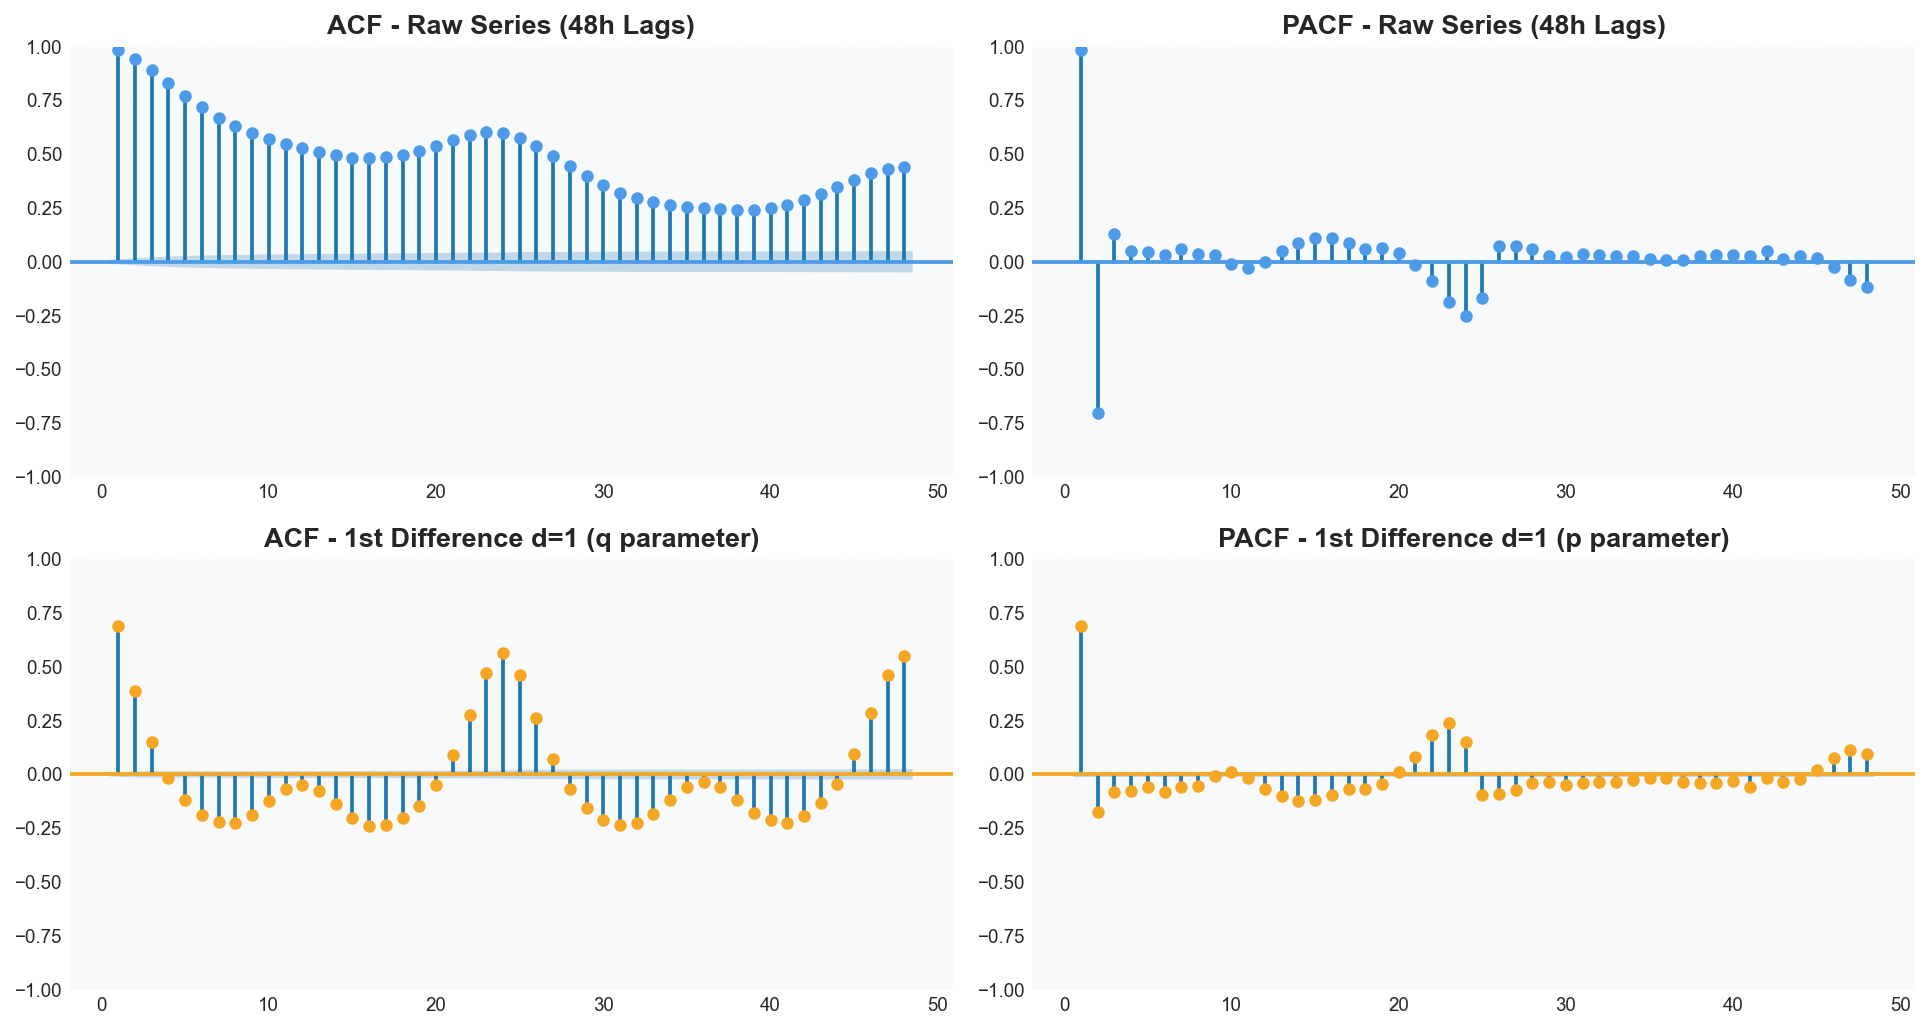
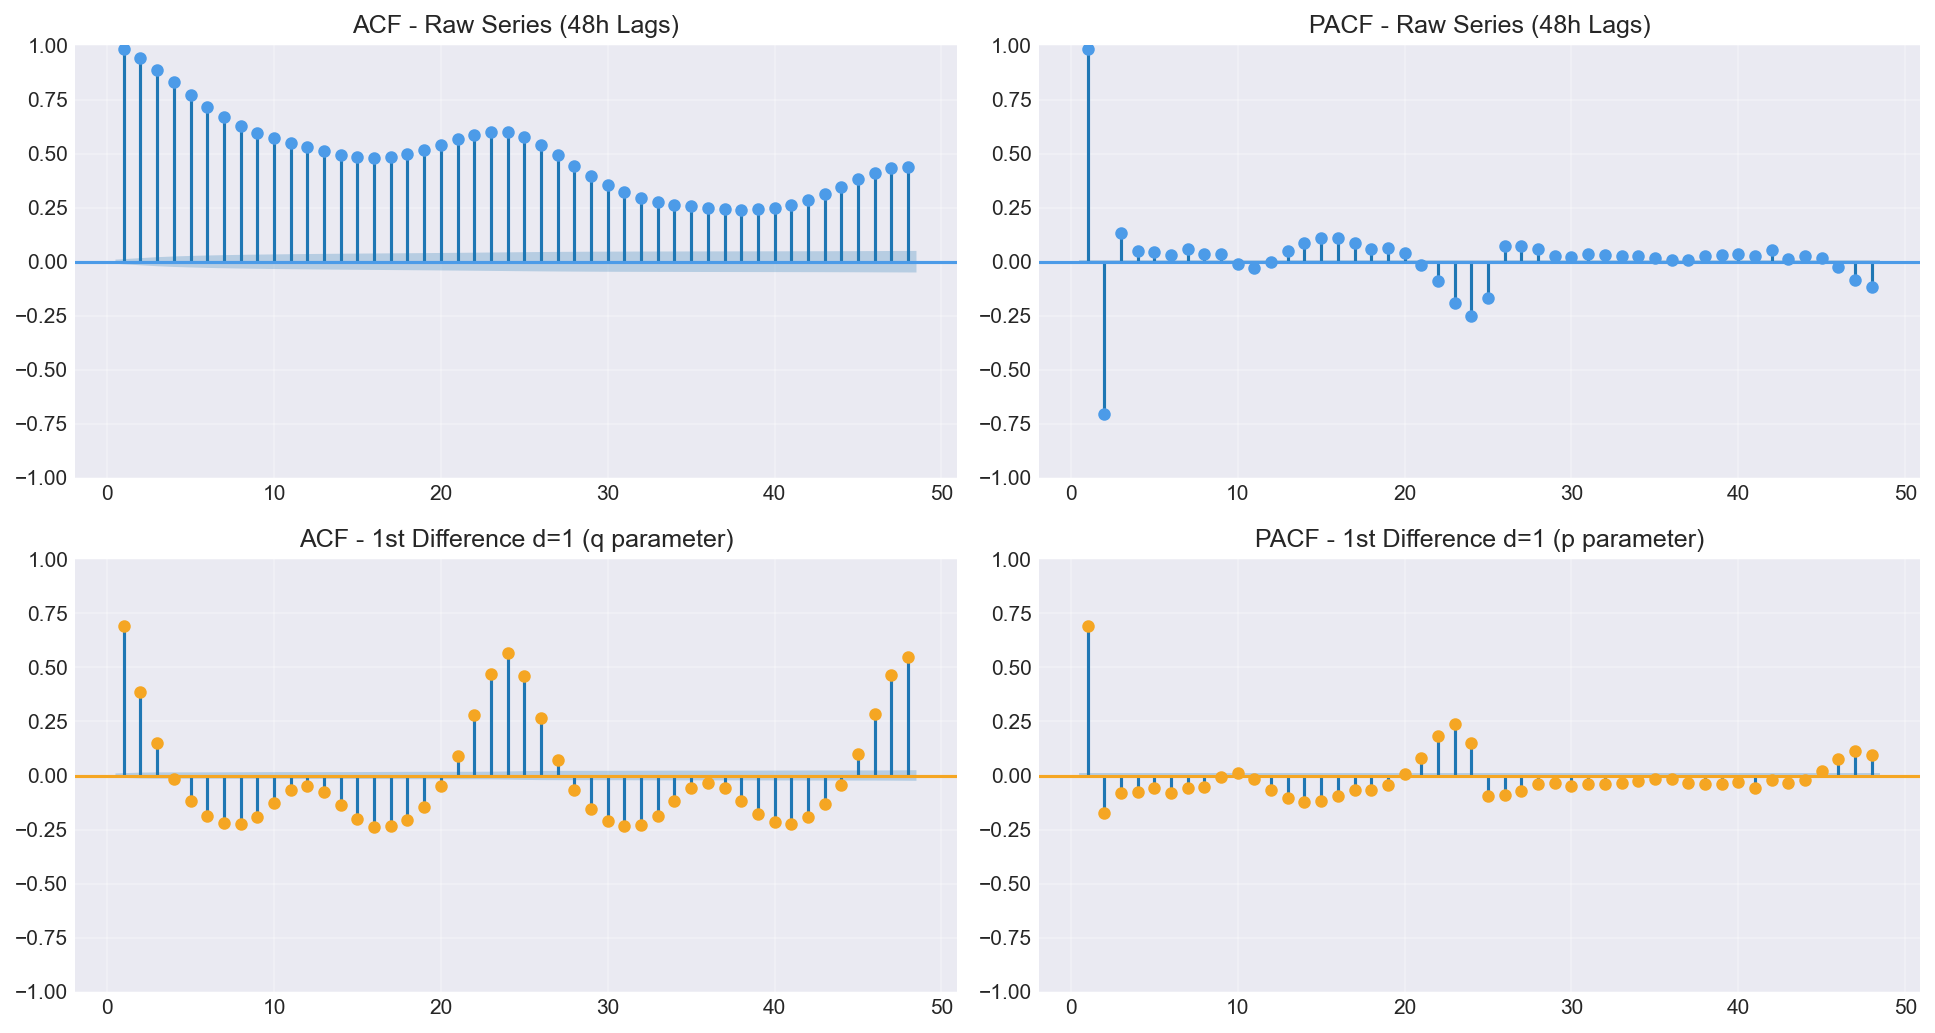
fix(arima): evaluate real ARIMA forecasts vs naive on the same origins

diff --git a/src/arima_and_diagnostics.py b/src/arima_and_diagnostics.py
@@ -4,11 +4,19 @@ arima_and_diagnostics.py - Time-Series Statistical Analysis & ARIMA Models
 Includes missing time-series diagnostics from the lecture notebook:
   1. Stationarity Analysis (ADF & KPSS hypothesis tests)
   2. ACF & PACF plots for raw and differenced series
-  3. Classical Statistical ARIMA forecasting (ARIMA(1,0,0), ARIMA(1,1,0), ARIMA(0,1,1), ARIMA(1,1,1))
+  3. Classical Statistical ARIMA forecasting (ARIMA(1,0,0), ARIMA(1,1,0), ARIMA(0,1,1), ARIMA(1,1,1), ARIMA(2,1,1))
   4. Residual diagnostics (Residual time series & Residual ACF plots)
 
 Run from repo root:
     python src/arima_and_diagnostics.py
+
+FIX (v2): in v1 the ARIMA models were fitted but the forecasts that were evaluated were
+`full_series.shift(h)` (= the naive baseline), so every ARIMA row had identical MAE/RMSE/MASE.
+Now each ARIMA model produces its OWN forecasts: parameters are fitted once on the last 4,000
+training hours, then for forecast origins spread through the test period (every `stride` hours)
+the fitted parameters are applied to the most recent `window` hours (no re-fitting, no future
+data) and h-step-ahead forecasts are taken. Naive is evaluated on exactly the same origins so
+the comparison is fair.
 """
 
 import os
@@ -35,6 +43,7 @@ warnings.filterwarnings("ignore")
 BASE_DIR   = os.path.join(os.path.dirname(__file__), "..")
 TABLES_DIR = os.path.join(BASE_DIR, "results", "tables")
 FIGS_DIR   = os.path.join(BASE_DIR, "results", "figures")
+PRED_DIR   = os.path.join(BASE_DIR, "results", "predictions")
 
 
 # --------------------------------------------------------------------------- 1. Stationarity Tests
@@ -108,54 +117,79 @@ def plot_acf_pacf_analysis(series: pd.Series):
 
 
 # --------------------------------------------------------------------------- 3. Classical ARIMA Models
-def run_arima_models(full_series: pd.Series, train_end_idx, test_idx, scale: float) -> pd.DataFrame:
-    """Fit candidate ARIMA models and evaluate out-of-sample forecast metrics across horizons."""
+ORDERS = {
+    "ARIMA(1,0,0)": (1, 0, 0),
+    "ARIMA(1,1,0)": (1, 1, 0),
+    "ARIMA(0,1,1)": (0, 1, 1),
+    "ARIMA(1,1,1)": (1, 1, 1),
+    "ARIMA(2,1,1)": (2, 1, 1),
+}
+
+
+def run_arima_models(full_series: pd.Series, train_end_idx, test_idx, scale: float,
+                     stride: int = 6, window: int = 336):
+    """
+    Fit candidate ARIMA models and evaluate their REAL h-step-ahead forecasts on the test period.
+
+    full_series : regular hourly Production series (gaps = NaN)
+    stride      : forecast origins are every `stride` hours inside the test period
+    window      : number of most recent hours the fitted model is applied to at each origin
+    """
     print("--- 2. Fitting Classical ARIMA Models ---")
-    
-    orders = {
-        "ARIMA(1,0,0)": (1, 0, 0),
-        "ARIMA(1,1,0)": (1, 1, 0),
-        "ARIMA(0,1,1)": (0, 1, 1),
-        "ARIMA(1,1,1)": (1, 1, 1),
-        "ARIMA(2,1,1)": (2, 1, 1),
-    }
-    
-    train_series = full_series.loc[:train_end_idx].dropna()
-    # For computational efficiency on 40,000+ hourly readings, fit on recent 4,000 hours (~6 months)
-    recent_train = train_series.iloc[-4000:]
-    
+    max_h = max(HORIZONS)
+
+    # For computational efficiency on 40,000+ hourly readings, fit on the recent 4,000 training hours (~6 months)
+    recent_train = full_series.loc[:train_end_idx].iloc[-4000:]
+
+    # forecast origins: the last observed hour is `t0`; we forecast t0+1h ... t0+24h
+    last_origin = full_series.index[-1] - pd.Timedelta(hours=max_h)
+    origins = [t for t in test_idx[::stride] if t <= last_origin]
+    print(f"  {len(origins)} forecast origins in the test period (every {stride}h)")
+
+    # ---- naive baseline on exactly the same origins (the fair reference)
     rows = []
-    arima_preds = {}
-    
-    for name, order in orders.items():
+    for h in HORIZONS:
+        tgt = pd.DatetimeIndex(origins) + pd.Timedelta(hours=h)
+        y_true = full_series.reindex(tgt).values
+        naive = full_series.reindex(origins).values
+        res = evaluate(y_true, naive, scale)
+        res.update({"Model": "Naive (same origins)", "Horizon_h": h, "AIC": np.nan})
+        rows.append(res)
+
+    fits = {}
+    for name, order in ORDERS.items():
         try:
-            model = ARIMA(recent_train, order=order)
-            fit = model.fit()
+            fit = ARIMA(recent_train, order=order).fit()
+            fits[name] = fit
             aic = round(fit.aic, 1)
-            
+
+            preds = {h: [] for h in HORIZONS}
+            for t0 in origins:
+                hist = full_series.loc[t0 - pd.Timedelta(hours=window - 1): t0]
+                fc = fit.apply(hist, refit=False).forecast(steps=max_h).values
+                for h in HORIZONS:
+                    preds[h].append(fc[h - 1])
+
             for h in HORIZONS:
-                # Direct forecast at horizon h (shift forecast origin)
-                fc = fit.forecast(steps=h).iloc[-1]
-                # Shifted out-of-sample forecast series over test set
-                pred_series = full_series.shift(h).reindex(test_idx)
-                
-                res = evaluate(full_series.reindex(test_idx), pred_series, scale)
-                res.update({"Model": f"{name}", "Horizon_h": h, "AIC": aic})
+                tgt = pd.DatetimeIndex(origins) + pd.Timedelta(hours=h)
+                res = evaluate(full_series.reindex(tgt).values, np.array(preds[h]), scale)
+                res.update({"Model": name, "Horizon_h": h, "AIC": aic})
                 rows.append(res)
-                
-                if h == 1:
-                    arima_preds[name] = pred_series
             print(f"  [OK] {name} fitted | AIC: {aic}")
         except Exception as e:
             print(f"  [Failed] {name}: {e}")
-            
+
     df_arima = pd.DataFrame(rows)
     df_arima.to_csv(os.path.join(TABLES_DIR, "arima_results.csv"), index=False)
-    return df_arima, arima_preds
+
+    show = df_arima.round({"MAE": 1, "RMSE": 1, "MASE": 4})
+    print(show.to_string(index=False))
+    return df_arima, fits
 
 
 # --------------------------------------------------------------------------- 4. Residual Diagnostics
-def plot_residual_diagnostics(y_true: pd.Series, y_pred: pd.Series, model_name: str = "Best Model"):
+def plot_residual_diagnostics(y_true: pd.Series, y_pred: pd.Series, model_name: str = "Best Model",
+                              filename: str = "05_residual_diagnostics.png"):
     """Generate diagnostic plots for model forecast errors (residuals)."""
     apply_style()
     residuals = (y_true - y_pred).dropna()
@@ -175,9 +209,9 @@ def plot_residual_diagnostics(y_true: pd.Series, y_pred: pd.Series, model_name: 
     axes[1].grid(alpha=0.3)
     
     plt.tight_layout()
-    savefig(os.path.join(FIGS_DIR, "05_residual_diagnostics.png"))
+    savefig(os.path.join(FIGS_DIR, filename))
     plt.close()
-    print("Saved Residual Diagnostics plot -> results/figures/05_residual_diagnostics.png")
+    print(f"Saved Residual Diagnostics plot -> results/figures/{filename}")
 
 
 # --------------------------------------------------------------------------- Pipeline Runner
@@ -195,13 +229,33 @@ def run_full_diagnostics():
     # 2. ACF / PACF Plots
     plot_acf_pacf_analysis(full.loc[:train.index.max()])
     
-    # 3. ARIMA Models
-    df_arima, arima_preds = run_arima_models(full, train.index.max(), test.index, scale)
+    # 3. ARIMA Models (real ARIMA forecasts, evaluated against naive on the same origins)
+    df_arima, fits = run_arima_models(full, train.index.max(), test.index, scale)
     
     # 4. Residual Diagnostics
     y_test = full.reindex(test.index)
+
+    # 4a. best ARIMA model at h=1 (one-step-ahead forecasts with the fitted parameters)
+    arima_rows = df_arima[(df_arima.Horizon_h == 1) & (df_arima.Model.isin(fits.keys()))]
+    if len(arima_rows):
+        best_name = arima_rows.sort_values("MAE").iloc[0]["Model"]
+        seg = full.loc[test.index.min() - pd.Timedelta(hours=336): test.index.max()]
+        one_step = fits[best_name].apply(seg, refit=False).fittedvalues.reindex(test.index)
+        plot_residual_diagnostics(y_test, one_step, model_name=f"{best_name} (h=1)",
+                                  filename="05_residual_diagnostics.png")
+
+    # 4b. naive baseline (for comparison)
     naive_pred = full.shift(1).reindex(test.index)
-    plot_residual_diagnostics(y_test, naive_pred, model_name="Naive Baseline (h=1)")
+    plot_residual_diagnostics(y_test, naive_pred, model_name="Naive Baseline (h=1)",
+                              filename="05b_residual_diagnostics_naive.png")
+
+    # 4c. best supervised model (LightGBM) if models.py was already run
+    p1 = os.path.join(PRED_DIR, "predictions_h1.csv")
+    if os.path.exists(p1):
+        pr = pd.read_csv(p1, index_col=0, parse_dates=True)
+        if "LightGBM" in pr.columns:
+            plot_residual_diagnostics(pr["y_true"], pr["LightGBM"], model_name="LightGBM (h=1)",
+                                      filename="06_residual_diagnostics_lightgbm.png")
     
     print("\n=== All Time-Series Lecture Diagnostics Completed Successfully! ===")
 
